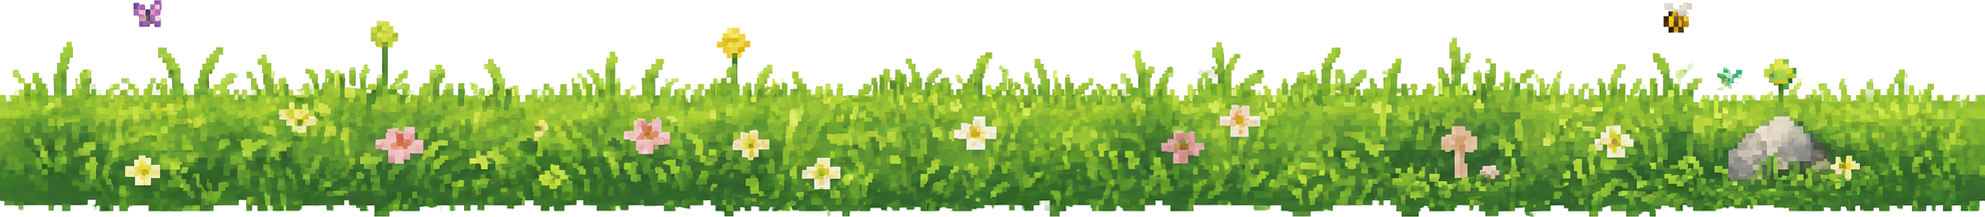
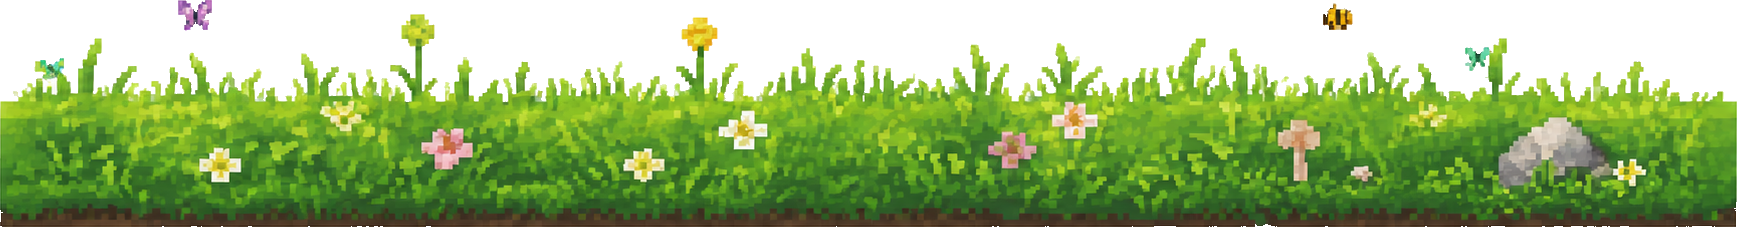
Swap in the flowery pixel grass strip for the scrolling ground

diff --git a/Project/src/entrypoints/popup/App.svelte b/Project/src/entrypoints/popup/App.svelte
@@ -870,20 +870,20 @@
     height: 55%;
     background-image: url(/scene/grass.png);
     background-repeat: repeat-x;
-    /* Fixed tile width (the strip is 1985px wide) so the scroll loops exactly. */
-    background-size: 1985px 100%;
+    /* Fixed tile width (the strip is 1737px wide) so the scroll loops exactly. */
+    background-size: 1737px 100%;
     background-position: left top;
   }
   /* While the companion runs it faces left and stays put, so scroll the meadow
-     to the RIGHT to sell forward motion. One full tile (1985px) takes 9.2s — a
-     run, not a slide. steps(134) hops the grass in discrete ~15px jumps (~60ms,
+     to the RIGHT to sell forward motion. One full tile (1737px) takes 9.2s — a
+     run, not a slide. steps(116) hops the grass in discrete ~15px jumps (~80ms,
      about twice the run frame rate) so it shares the pixel-art look without
      stuttering. The animation is attached whenever the focus session is `active`
      (running OR paused) and defaults to paused; adding `running` plays it. That
      way a pause freezes the grass in place and resume continues from there,
      instead of snapping back to the start. */
   .ground.active {
-    animation: grass-scroll 9.2s steps(134) infinite;
+    animation: grass-scroll 9.2s steps(116) infinite;
     animation-play-state: paused;
   }
   .ground.active.running {
@@ -891,7 +891,7 @@
   }
   @keyframes grass-scroll {
     from { background-position: 0 top; }
-    to   { background-position: 1985px top; }
+    to   { background-position: 1737px top; }
   }
   @media (prefers-reduced-motion: reduce) {
     .ground.active { animation: none; }